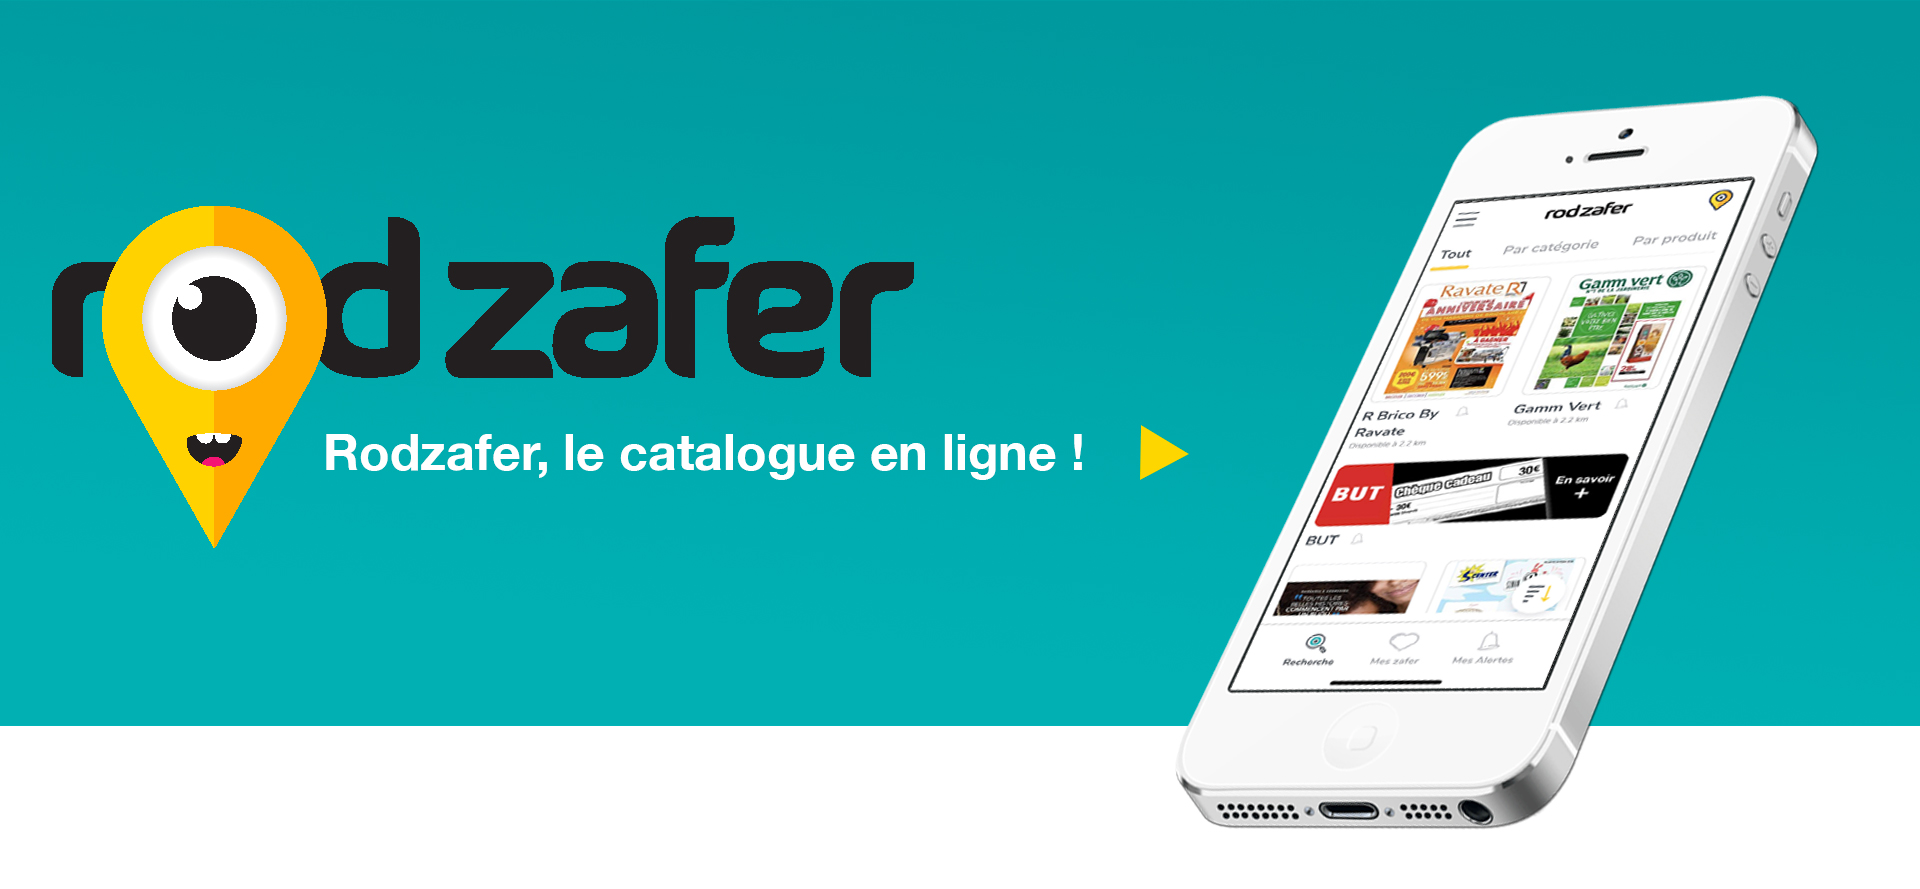
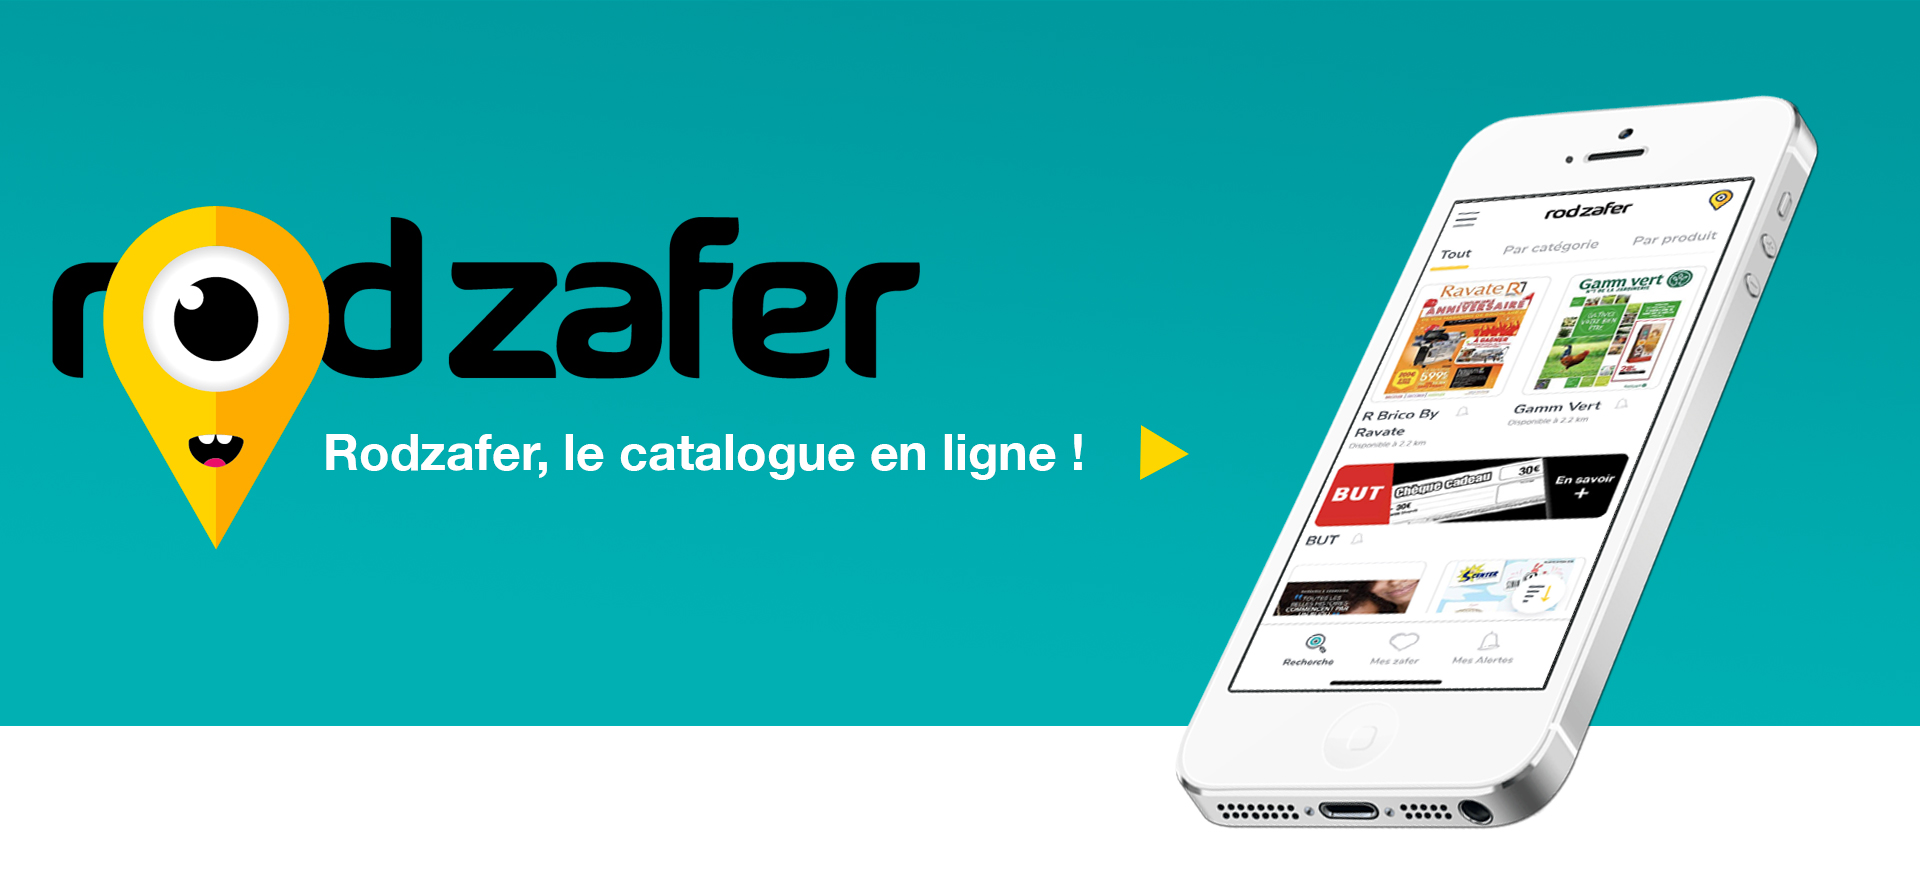
correction mise en page

Changed region(s): [[0.0, 0.243, 0.5, 0.4252], [0.0938, 0.5771, 0.125, 0.6074], [0.0938, 0.4859, 0.125, 0.5163]]

diff --git a/css/style.css b/css/style.css
@@ -9,17 +9,17 @@ body{font-family:Arial!important;color:#000;}
 .container-fluid{padding-right:0;padding-left:0;}
 .content_rod{position:relative;margin-bottom:100px;}
 .content_rod .image_header{width:100%;height:auto;}
-.content_down_app{position:absolute;bottom:0;width:100%;text-align:left;padding-left:290px;}
+.content_down_app{position:absolute;bottom:0;/*width:100%;*/text-align:left;padding-left:140px;}
 .content_down_app a{display:inline-block;margin:0 10px;}
 .content_down_app a img{max-width:190px;height:auto;}
-.titre{text-align:center;background: url("../images/back_titre.jpg") no-repeat center bottom;padding-bottom:20px;font-size:22px;text-transform:uppercase;margin:0 0 50px 0;line-height: normal; letter-spacing:3px;}
-#offre_exclusives h3{text-align:center;margin:0 0 50px 0;padding:0;font-size:18px;}
+.titre{text-align:center;background: url("../images/back_titre.jpg") no-repeat center bottom;padding-bottom:20px;font-size:22px;text-transform:uppercase;margin:0 0 50px 0;line-height: normal; letter-spacing:3px;font-weight:600;}
+#offre_exclusives h3{text-align:center;margin:0 0 50px 0;padding:0;font-size:18px;font-weight:600;}
 .logo_partenaire{margin:0 0 20px 0;padding:0;display:block;}
 .list_offre ul{list-style-type:none;text-align:center ;margin:0;}
 .list_offre ul li{display: inline-block;margin:0 80px 20px 80px;max-width:200px;vertical-align:top;}
 .list_offre ul li a:hover{text-decoration:none;}
 .text_logo_partenaire{display:block;}
-.text_logo_partenaire{text-transform:uppercase;font-size:12px;color:#000;}
+.text_logo_partenaire{text-transform:uppercase;font-size:12px;color:#000;font-weight:bold;}
 section{margin-bottom:50px;border:0!important; outline: none!important;}
 #dernier_zafer img{max-width:196px;margin:0 auto;}
 .owl-prev{float:left;}
@@ -41,7 +41,7 @@ section{margin-bottom:50px;border:0!important; outline: none!important;}
 .content_down_app_telecharger_appli a img{width:100%;height:auto;max-width:150px;border:1px solid #fff;}
 .content_inner_pourquoi{text-align:center;}
 .nav>li>a{padding:5px 20px;}
-#contact{width:100%;background:url(../images/back_content_contact.png) no-repeat left center; background-size:cover;color:#fff;padding-bottom:0;}
+#contact{width:100%;background:url(../images/back_content_contact.png) no-repeat left center; background-size:cover;color:#fff;padding-bottom:0;margin-bottom:0;}
 #contact h2{text-align:center;font-size:22px;text-transform:uppercase; letter-spacing:3px;}
 #contact .col-md-6{padding-left:0;padding-right:0;}
 .content_contact{background:url(../images/pinceau_contact.png) no-repeat left top;padding-left:60px;}
@@ -51,9 +51,9 @@ section{margin-bottom:50px;border:0!important; outline: none!important;}
 .inner_content_contact_right h3{margin:0;padding:0;font-size:18px;text-transform:uppercase;}
 .inner_content_contact_right p{font-size:27px;font-weight:normal;}
 .content_contact_top{padding:0 20px 0 0;border-bottom:3px solid #ffd204;margin:0 0 50px 0;display:table;}
-#Suivez_nous h2{text-align:center;font-size:22px;text-transform:uppercase;margin:0 0 50px 0;line-height: normal; letter-spacing:3px;font-weight:bold;}
+#Suivez_nous h2{text-align:center;font-size:25px;text-transform:uppercase;margin:0 0 20px 0;line-height: normal; letter-spacing:3px;font-weight:bold;}
 #Suivez_nous .list_reseaux_socio{text-align:center;}
-#Suivez_nous .list_reseaux_socio a{display:inline-block;margin:0 20px;}
+#Suivez_nous .list_reseaux_socio a{display:inline-block;margin:0 10px;}
 #foot_top{background:#22afa9;padding:30px 0;margin:0;}
 #foot_top .list_lien_footer{text-align:center;}
 #foot_top .list_lien_footer ul{list-style-type:none;margin:0;}
@@ -78,6 +78,7 @@ section#dernier_zafer{margin-bottom:0;}
     font-weight: bold;
 }
 .sticky{position:fixed;width:100%;top:0;z-index:100;}
+#Suivez_nous{margin:0;padding:25px 0;}
 @media screen and (max-width: 1024px) {
     .top .logo{max-width:126px;}
     .top #myNavbar{margin-top:0;}

diff --git a/page_accueil_road_zafer.html b/page_accueil_road_zafer.html
@@ -52,8 +52,9 @@
     <div class="container-fluid">
       <div class="content_rod">
         <img src="images/image_header_rod.jpg" class="img-responsive image_header">
-        <div class="content_down_app">
+       
           <div class="container">
+              <div class="content_down_app">
           <a href="#">
             <img src="images/image_google_play.jpg">
           </a>
